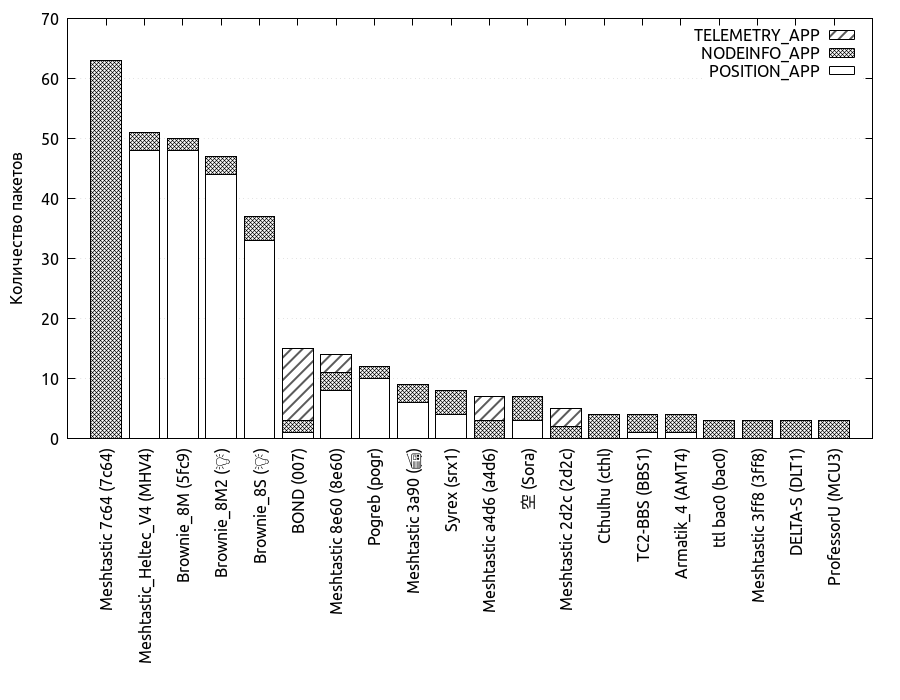
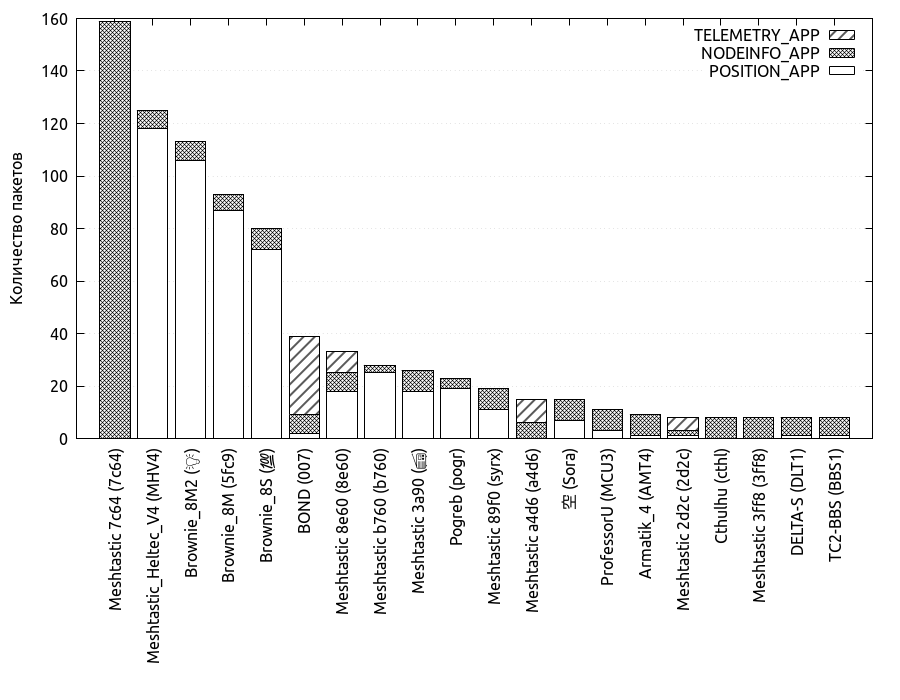
Update: 2026-05-10

Changed region(s): [[0.0311, 0.0, 0.9333, 0.96]]

diff --git a/spamers/2026-05-10/index.html b/spamers/2026-05-10/index.html
@@ -7,7 +7,7 @@
 <meta name="robots" content="index, follow">
 <title>2026-05-10 | dwr𝔣</title>
 <meta name="keywords" content="">
-<meta name="description" content="Услышано нод за сутки: 29">
+<meta name="description" content="Услышано нод за сутки: 35">
 <meta name="author" content="">
 <link rel="canonical" href="https://dwrf.ftp.sh/spamers/2026-05-10/">
 <link crossorigin="anonymous" href="/assets/css/stylesheet.6fa248c180ac4f9056a884e3b49e304390e0e4bc65ce5c291c0c637f6f2db58c.css" integrity="sha256-b6JIwYCsT5BWqITjtJ4wQ5Dg5LxlzlwpHAxjf28ttYw=" rel="preload stylesheet" as="style">
@@ -30,16 +30,16 @@
 </noscript><meta property="og:url" content="https://dwrf.ftp.sh/spamers/2026-05-10/">
   <meta property="og:site_name" content="dwr𝔣">
   <meta property="og:title" content="2026-05-10">
-  <meta property="og:description" content="Услышано нод за сутки: 29">
+  <meta property="og:description" content="Услышано нод за сутки: 35">
   <meta property="og:locale" content="ru_ru">
   <meta property="og:type" content="article">
     <meta property="article:section" content="spamers">
     <meta property="article:published_time" content="2026-05-10T00:00:00+00:00">
-    <meta property="article:modified_time" content="2026-05-10T09:38:07+03:00">
+    <meta property="article:modified_time" content="2026-05-10T23:55:06+03:00">
 
   <meta name="twitter:card" content="summary">
   <meta name="twitter:title" content="2026-05-10">
-  <meta name="twitter:description" content="Услышано нод за сутки: 29">
+  <meta name="twitter:description" content="Услышано нод за сутки: 35">
 
 
 <script type="application/ld+json">
@@ -68,15 +68,15 @@
   "@type": "BlogPosting",
   "headline": "2026-05-10",
   "name": "2026-05-10",
-  "description": "Услышано нод за сутки: 29",
+  "description": "Услышано нод за сутки: 35",
   "keywords": [
     
   ],
-  "articleBody": "\n# NodeName Position NodeInfo Telemetry 1 Meshtastic 7c64 (7c64) 0 63 0 2 Meshtastic_Heltec_V4 (MHV4) 48 3 0 3 Brownie_8M (5fc9) 48 2 0 4 Brownie_8M2 (💡) 44 3 0 5 Brownie_8S (💡) 33 4 0 6 BOND (007) 1 2 12 7 Meshtastic 8e60 (8e60) 8 3 3 8 Pogreb (pogr) 10 2 0 9 Meshtastic 3a90 (📻) 6 3 0 10 Syrex (srx1) 4 4 0 11 Meshtastic a4d6 (a4d6) 0 3 4 12 空 (Sora) 3 4 0 13 Meshtastic 2d2c (2d2c) 0 2 3 14 Cthulhu (cthl) 0 4 0 15 TC2-BBS (BBS1) 1 3 0 16 Armatik_4 (AMT4) 1 3 0 17 ttl bac0 (bac0) 0 3 0 18 Meshtastic 3ff8 (3ff8) 0 3 0 19 DELTA-S (DLT1) 0 3 0 20 ProfessorU (MCU3) 0 3 0 21 Armatik_3 (AMT3) 0 3 0 22 SkyArt88 (SkyA) 0 0 2 23 Pennywise (ONO) 1 1 0 24 Meshtastic 62e8 (62e8) 0 2 0 25 jenya (ttl) 0 2 0 26 Solarcore0 (Sun0) 0 2 0 27 Meshtastic be25 (be25) 0 2 0 28 DELTA-P (DLT2) 0 2 0 29 BALABAN (BALA) 1 0 0 ",
-  "wordCount" : "188",
+  "articleBody": "\n# NodeName Position NodeInfo Telemetry 1 Meshtastic 7c64 (7c64) 0 159 0 2 Meshtastic_Heltec_V4 (MHV4) 118 7 0 3 Brownie_8M2 (💡) 106 7 0 4 Brownie_8M (5fc9) 87 6 0 5 Brownie_8S (💯) 72 8 0 6 BOND (007) 2 7 30 7 Meshtastic 8e60 (8e60) 18 7 8 8 Meshtastic b760 (b760) 25 3 0 9 Meshtastic 3a90 (📻) 18 8 0 10 Pogreb (pogr) 19 4 0 11 Meshtastic 89f0 (syrx) 11 8 0 12 Meshtastic a4d6 (a4d6) 0 6 9 13 空 (Sora) 7 8 0 14 ProfessorU (MCU3) 3 8 0 15 Armatik_4 (AMT4) 1 8 0 16 Meshtastic 2d2c (2d2c) 1 2 5 17 Cthulhu (cthl) 0 8 0 18 Meshtastic 3ff8 (3ff8) 0 8 0 19 DELTA-S (DLT1) 1 7 0 20 TC2-BBS (BBS1) 1 7 0 21 Armatik_3 (AMT3) 0 7 0 22 ttl bac0 (bac0) 0 6 0 23 SkyArt88 (SkyA) 1 2 3 24 ANNUNAKI (ENKI) 3 3 0 25 Meshtastic 62e8 (62e8) 0 6 0 26 jenya (ttl) 0 6 0 27 Solarcore0 (Sun0) 0 6 0 28 DELTA-S (DLT1) 0 5 0 29 Emergency (112) 1 2 0 30 Warlock (Wrlc) 0 2 0 31 Meshtastic be25 (be25) 0 2 0 32 dwrf (dwrf) 1 0 0 33 BALABAN (BALA) 1 0 0 34 Meshtastic 5140 (5140) 0 1 0 35 Meshtastic 8180 (8180) 0 0 1 ",
+  "wordCount" : "228",
   "inLanguage": "en",
   "datePublished": "2026-05-10T00:00:00Z",
-  "dateModified": "2026-05-10T09:38:07.738068+03:00",
+  "dateModified": "2026-05-10T23:55:06.995762+03:00",
   "mainEntityOfPage": {
     "@type": "WebPage",
     "@id": "https://dwrf.ftp.sh/spamers/2026-05-10/"
@@ -135,204 +135,246 @@
           <td style="text-align: center">1</td>
           <td style="text-align: center">Meshtastic 7c64 (7c64)</td>
           <td style="text-align: center">0</td>
-          <td style="text-align: center">63</td>
+          <td style="text-align: center">159</td>
           <td style="text-align: center">0</td>
       </tr>
       <tr>
           <td style="text-align: center">2</td>
           <td style="text-align: center">Meshtastic_Heltec_V4 (MHV4)</td>
-          <td style="text-align: center">48</td>
-          <td style="text-align: center">3</td>
+          <td style="text-align: center">118</td>
+          <td style="text-align: center">7</td>
           <td style="text-align: center">0</td>
       </tr>
       <tr>
           <td style="text-align: center">3</td>
-          <td style="text-align: center">Brownie_8M (5fc9)</td>
-          <td style="text-align: center">48</td>
-          <td style="text-align: center">2</td>
+          <td style="text-align: center">Brownie_8M2 (💡)</td>
+          <td style="text-align: center">106</td>
+          <td style="text-align: center">7</td>
           <td style="text-align: center">0</td>
       </tr>
       <tr>
           <td style="text-align: center">4</td>
-          <td style="text-align: center">Brownie_8M2 (💡)</td>
-          <td style="text-align: center">44</td>
-          <td style="text-align: center">3</td>
+          <td style="text-align: center">Brownie_8M (5fc9)</td>
+          <td style="text-align: center">87</td>
+          <td style="text-align: center">6</td>
           <td style="text-align: center">0</td>
       </tr>
       <tr>
           <td style="text-align: center">5</td>
-          <td style="text-align: center">Brownie_8S (💡)</td>
-          <td style="text-align: center">33</td>
-          <td style="text-align: center">4</td>
+          <td style="text-align: center">Brownie_8S (💯)</td>
+          <td style="text-align: center">72</td>
+          <td style="text-align: center">8</td>
           <td style="text-align: center">0</td>
       </tr>
       <tr>
           <td style="text-align: center">6</td>
           <td style="text-align: center">BOND (007)</td>
-          <td style="text-align: center">1</td>
           <td style="text-align: center">2</td>
-          <td style="text-align: center">12</td>
+          <td style="text-align: center">7</td>
+          <td style="text-align: center">30</td>
       </tr>
       <tr>
           <td style="text-align: center">7</td>
           <td style="text-align: center">Meshtastic 8e60 (8e60)</td>
+          <td style="text-align: center">18</td>
+          <td style="text-align: center">7</td>
           <td style="text-align: center">8</td>
-          <td style="text-align: center">3</td>
-          <td style="text-align: center">3</td>
       </tr>
       <tr>
           <td style="text-align: center">8</td>
-          <td style="text-align: center">Pogreb (pogr)</td>
-          <td style="text-align: center">10</td>
-          <td style="text-align: center">2</td>
+          <td style="text-align: center">Meshtastic b760 (b760)</td>
+          <td style="text-align: center">25</td>
+          <td style="text-align: center">3</td>
           <td style="text-align: center">0</td>
       </tr>
       <tr>
           <td style="text-align: center">9</td>
           <td style="text-align: center">Meshtastic 3a90 (📻)</td>
-          <td style="text-align: center">6</td>
-          <td style="text-align: center">3</td>
+          <td style="text-align: center">18</td>
+          <td style="text-align: center">8</td>
           <td style="text-align: center">0</td>
       </tr>
       <tr>
           <td style="text-align: center">10</td>
-          <td style="text-align: center">Syrex (srx1)</td>
-          <td style="text-align: center">4</td>
+          <td style="text-align: center">Pogreb (pogr)</td>
+          <td style="text-align: center">19</td>
           <td style="text-align: center">4</td>
           <td style="text-align: center">0</td>
       </tr>
       <tr>
           <td style="text-align: center">11</td>
-          <td style="text-align: center">Meshtastic a4d6 (a4d6)</td>
+          <td style="text-align: center">Meshtastic 89f0 (syrx)</td>
+          <td style="text-align: center">11</td>
+          <td style="text-align: center">8</td>
           <td style="text-align: center">0</td>
-          <td style="text-align: center">3</td>
-          <td style="text-align: center">4</td>
       </tr>
       <tr>
           <td style="text-align: center">12</td>
-          <td style="text-align: center">空 (Sora)</td>
-          <td style="text-align: center">3</td>
-          <td style="text-align: center">4</td>
+          <td style="text-align: center">Meshtastic a4d6 (a4d6)</td>
           <td style="text-align: center">0</td>
+          <td style="text-align: center">6</td>
+          <td style="text-align: center">9</td>
       </tr>
       <tr>
           <td style="text-align: center">13</td>
-          <td style="text-align: center">Meshtastic 2d2c (2d2c)</td>
+          <td style="text-align: center">空 (Sora)</td>
+          <td style="text-align: center">7</td>
+          <td style="text-align: center">8</td>
           <td style="text-align: center">0</td>
-          <td style="text-align: center">2</td>
-          <td style="text-align: center">3</td>
       </tr>
       <tr>
           <td style="text-align: center">14</td>
-          <td style="text-align: center">Cthulhu (cthl)</td>
-          <td style="text-align: center">0</td>
-          <td style="text-align: center">4</td>
+          <td style="text-align: center">ProfessorU (MCU3)</td>
+          <td style="text-align: center">3</td>
+          <td style="text-align: center">8</td>
           <td style="text-align: center">0</td>
       </tr>
       <tr>
           <td style="text-align: center">15</td>
-          <td style="text-align: center">TC2-BBS (BBS1)</td>
+          <td style="text-align: center">Armatik_4 (AMT4)</td>
           <td style="text-align: center">1</td>
-          <td style="text-align: center">3</td>
+          <td style="text-align: center">8</td>
           <td style="text-align: center">0</td>
       </tr>
       <tr>
           <td style="text-align: center">16</td>
-          <td style="text-align: center">Armatik_4 (AMT4)</td>
+          <td style="text-align: center">Meshtastic 2d2c (2d2c)</td>
           <td style="text-align: center">1</td>
-          <td style="text-align: center">3</td>
-          <td style="text-align: center">0</td>
+          <td style="text-align: center">2</td>
+          <td style="text-align: center">5</td>
       </tr>
       <tr>
           <td style="text-align: center">17</td>
-          <td style="text-align: center">ttl bac0 (bac0)</td>
+          <td style="text-align: center">Cthulhu (cthl)</td>
           <td style="text-align: center">0</td>
-          <td style="text-align: center">3</td>
+          <td style="text-align: center">8</td>
           <td style="text-align: center">0</td>
       </tr>
       <tr>
           <td style="text-align: center">18</td>
           <td style="text-align: center">Meshtastic 3ff8 (3ff8)</td>
           <td style="text-align: center">0</td>
-          <td style="text-align: center">3</td>
+          <td style="text-align: center">8</td>
           <td style="text-align: center">0</td>
       </tr>
       <tr>
           <td style="text-align: center">19</td>
           <td style="text-align: center">DELTA-S (DLT1)</td>
-          <td style="text-align: center">0</td>
-          <td style="text-align: center">3</td>
+          <td style="text-align: center">1</td>
+          <td style="text-align: center">7</td>
           <td style="text-align: center">0</td>
       </tr>
       <tr>
           <td style="text-align: center">20</td>
-          <td style="text-align: center">ProfessorU (MCU3)</td>
-          <td style="text-align: center">0</td>
-          <td style="text-align: center">3</td>
+          <td style="text-align: center">TC2-BBS (BBS1)</td>
+          <td style="text-align: center">1</td>
+          <td style="text-align: center">7</td>
           <td style="text-align: center">0</td>
       </tr>
       <tr>
           <td style="text-align: center">21</td>
           <td style="text-align: center">Armatik_3 (AMT3)</td>
           <td style="text-align: center">0</td>
-          <td style="text-align: center">3</td>
+          <td style="text-align: center">7</td>
           <td style="text-align: center">0</td>
       </tr>
       <tr>
           <td style="text-align: center">22</td>
-          <td style="text-align: center">SkyArt88 (SkyA)</td>
+          <td style="text-align: center">ttl bac0 (bac0)</td>
           <td style="text-align: center">0</td>
+          <td style="text-align: center">6</td>
           <td style="text-align: center">0</td>
-          <td style="text-align: center">2</td>
       </tr>
       <tr>
           <td style="text-align: center">23</td>
-          <td style="text-align: center">Pennywise (ONO)</td>
+          <td style="text-align: center">SkyArt88 (SkyA)</td>
           <td style="text-align: center">1</td>
-          <td style="text-align: center">1</td>
-          <td style="text-align: center">0</td>
+          <td style="text-align: center">2</td>
+          <td style="text-align: center">3</td>
       </tr>
       <tr>
           <td style="text-align: center">24</td>
-          <td style="text-align: center">Meshtastic 62e8 (62e8)</td>
-          <td style="text-align: center">0</td>
-          <td style="text-align: center">2</td>
+          <td style="text-align: center">ANNUNAKI (ENKI)</td>
+          <td style="text-align: center">3</td>
+          <td style="text-align: center">3</td>
           <td style="text-align: center">0</td>
       </tr>
       <tr>
           <td style="text-align: center">25</td>
-          <td style="text-align: center">jenya (ttl)</td>
+          <td style="text-align: center">Meshtastic 62e8 (62e8)</td>
           <td style="text-align: center">0</td>
-          <td style="text-align: center">2</td>
+          <td style="text-align: center">6</td>
           <td style="text-align: center">0</td>
       </tr>
       <tr>
           <td style="text-align: center">26</td>
+          <td style="text-align: center">jenya (ttl)</td>
+          <td style="text-align: center">0</td>
+          <td style="text-align: center">6</td>
+          <td style="text-align: center">0</td>
+      </tr>
+      <tr>
+          <td style="text-align: center">27</td>
           <td style="text-align: center">Solarcore0 (Sun0)</td>
+          <td style="text-align: center">0</td>
+          <td style="text-align: center">6</td>
+          <td style="text-align: center">0</td>
+      </tr>
+      <tr>
+          <td style="text-align: center">28</td>
+          <td style="text-align: center">DELTA-S (DLT1)</td>
+          <td style="text-align: center">0</td>
+          <td style="text-align: center">5</td>
+          <td style="text-align: center">0</td>
+      </tr>
+      <tr>
+          <td style="text-align: center">29</td>
+          <td style="text-align: center">Emergency (112)</td>
+          <td style="text-align: center">1</td>
+          <td style="text-align: center">2</td>
+          <td style="text-align: center">0</td>
+      </tr>
+      <tr>
+          <td style="text-align: center">30</td>
+          <td style="text-align: center">Warlock (Wrlc)</td>
           <td style="text-align: center">0</td>
           <td style="text-align: center">2</td>
           <td style="text-align: center">0</td>
       </tr>
       <tr>
-          <td style="text-align: center">27</td>
+          <td style="text-align: center">31</td>
           <td style="text-align: center">Meshtastic be25 (be25)</td>
           <td style="text-align: center">0</td>
           <td style="text-align: center">2</td>
           <td style="text-align: center">0</td>
       </tr>
       <tr>
-          <td style="text-align: center">28</td>
-          <td style="text-align: center">DELTA-P (DLT2)</td>
+          <td style="text-align: center">32</td>
+          <td style="text-align: center">dwrf (dwrf)</td>
+          <td style="text-align: center">1</td>
           <td style="text-align: center">0</td>
-          <td style="text-align: center">2</td>
           <td style="text-align: center">0</td>
       </tr>
       <tr>
-          <td style="text-align: center">29</td>
+          <td style="text-align: center">33</td>
           <td style="text-align: center">BALABAN (BALA)</td>
           <td style="text-align: center">1</td>
           <td style="text-align: center">0</td>
           <td style="text-align: center">0</td>
+      </tr>
+      <tr>
+          <td style="text-align: center">34</td>
+          <td style="text-align: center">Meshtastic 5140 (5140)</td>
+          <td style="text-align: center">0</td>
+          <td style="text-align: center">1</td>
+          <td style="text-align: center">0</td>
+      </tr>
+      <tr>
+          <td style="text-align: center">35</td>
+          <td style="text-align: center">Meshtastic 8180 (8180)</td>
+          <td style="text-align: center">0</td>
+          <td style="text-align: center">0</td>
+          <td style="text-align: center">1</td>
       </tr>
   </tbody>
 </table>

diff --git a/index.html b/index.html
@@ -74,7 +74,7 @@
     </h2>
   </header>
   <div class="entry-content">
-    <p>Услышано нод за сутки: 29</p>
+    <p>Услышано нод за сутки: 35</p>
   </div>
   <footer class="entry-footer"><span title='2026-05-10 00:00:00 +0000 UTC'>May 10, 2026</span></footer>
   <a class="entry-link" aria-label="post link to 2026-05-10" href="https://dwrf.ftp.sh/spamers/2026-05-10/"></a>

diff --git a/spamers/index.html b/spamers/index.html
@@ -81,7 +81,7 @@
     </h2>
   </header>
   <div class="entry-content">
-    <p>Услышано нод за сутки: 29</p>
+    <p>Услышано нод за сутки: 35</p>
   </div>
   <footer class="entry-footer"><span title='2026-05-10 00:00:00 +0000 UTC'>May 10, 2026</span></footer>
   <a class="entry-link" aria-label="post link to 2026-05-10" href="https://dwrf.ftp.sh/spamers/2026-05-10/"></a>
